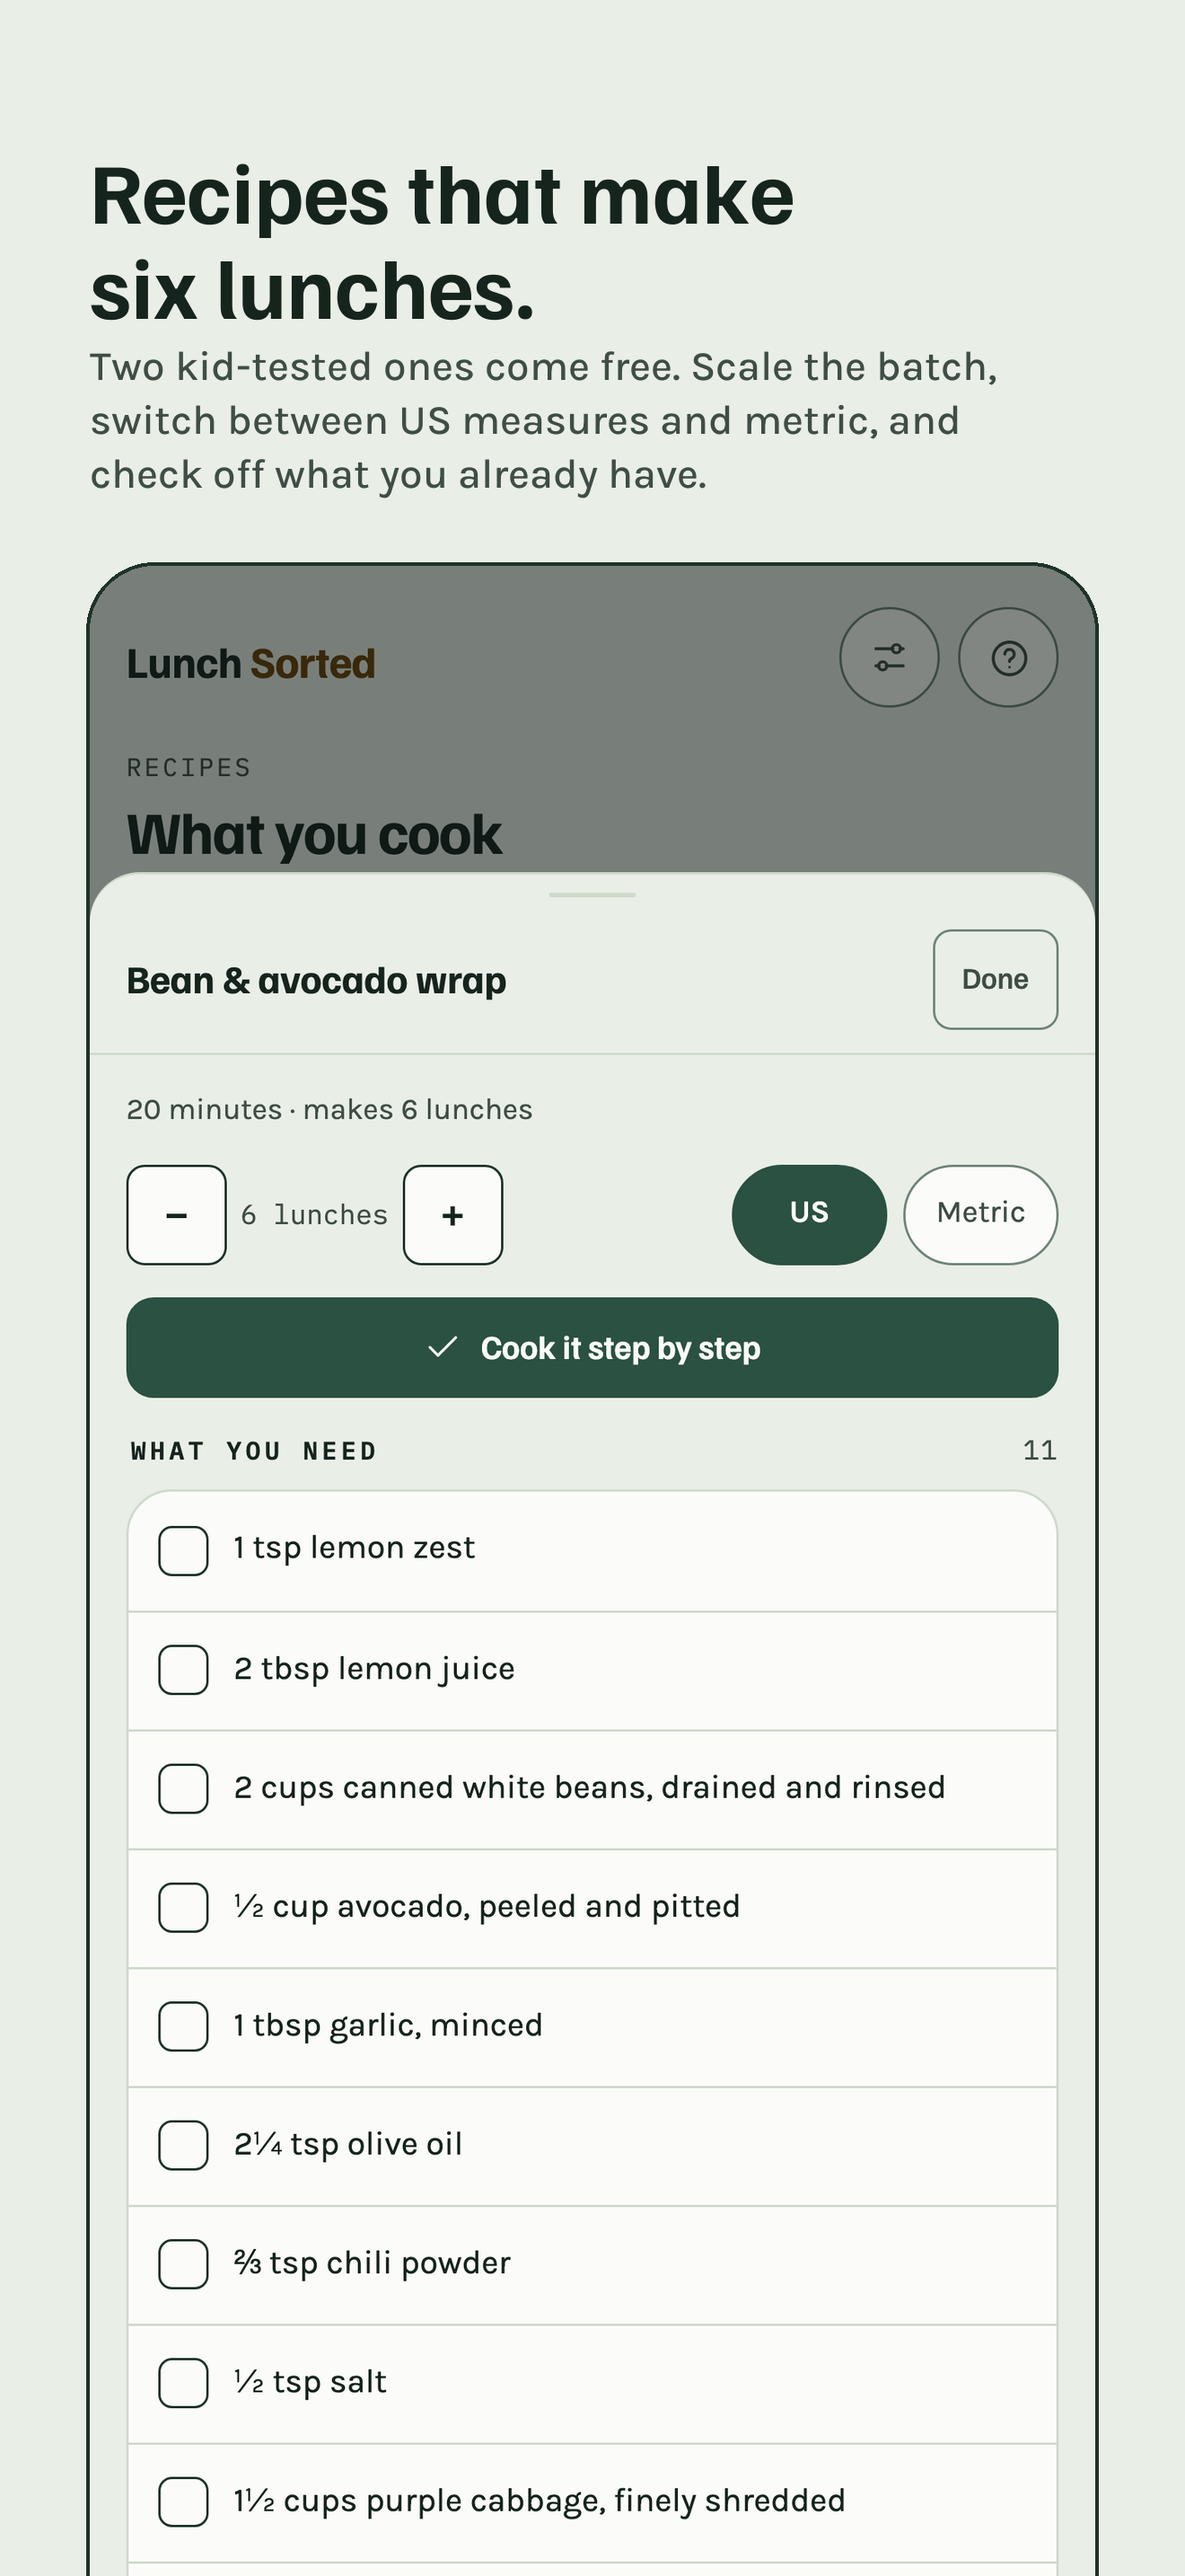
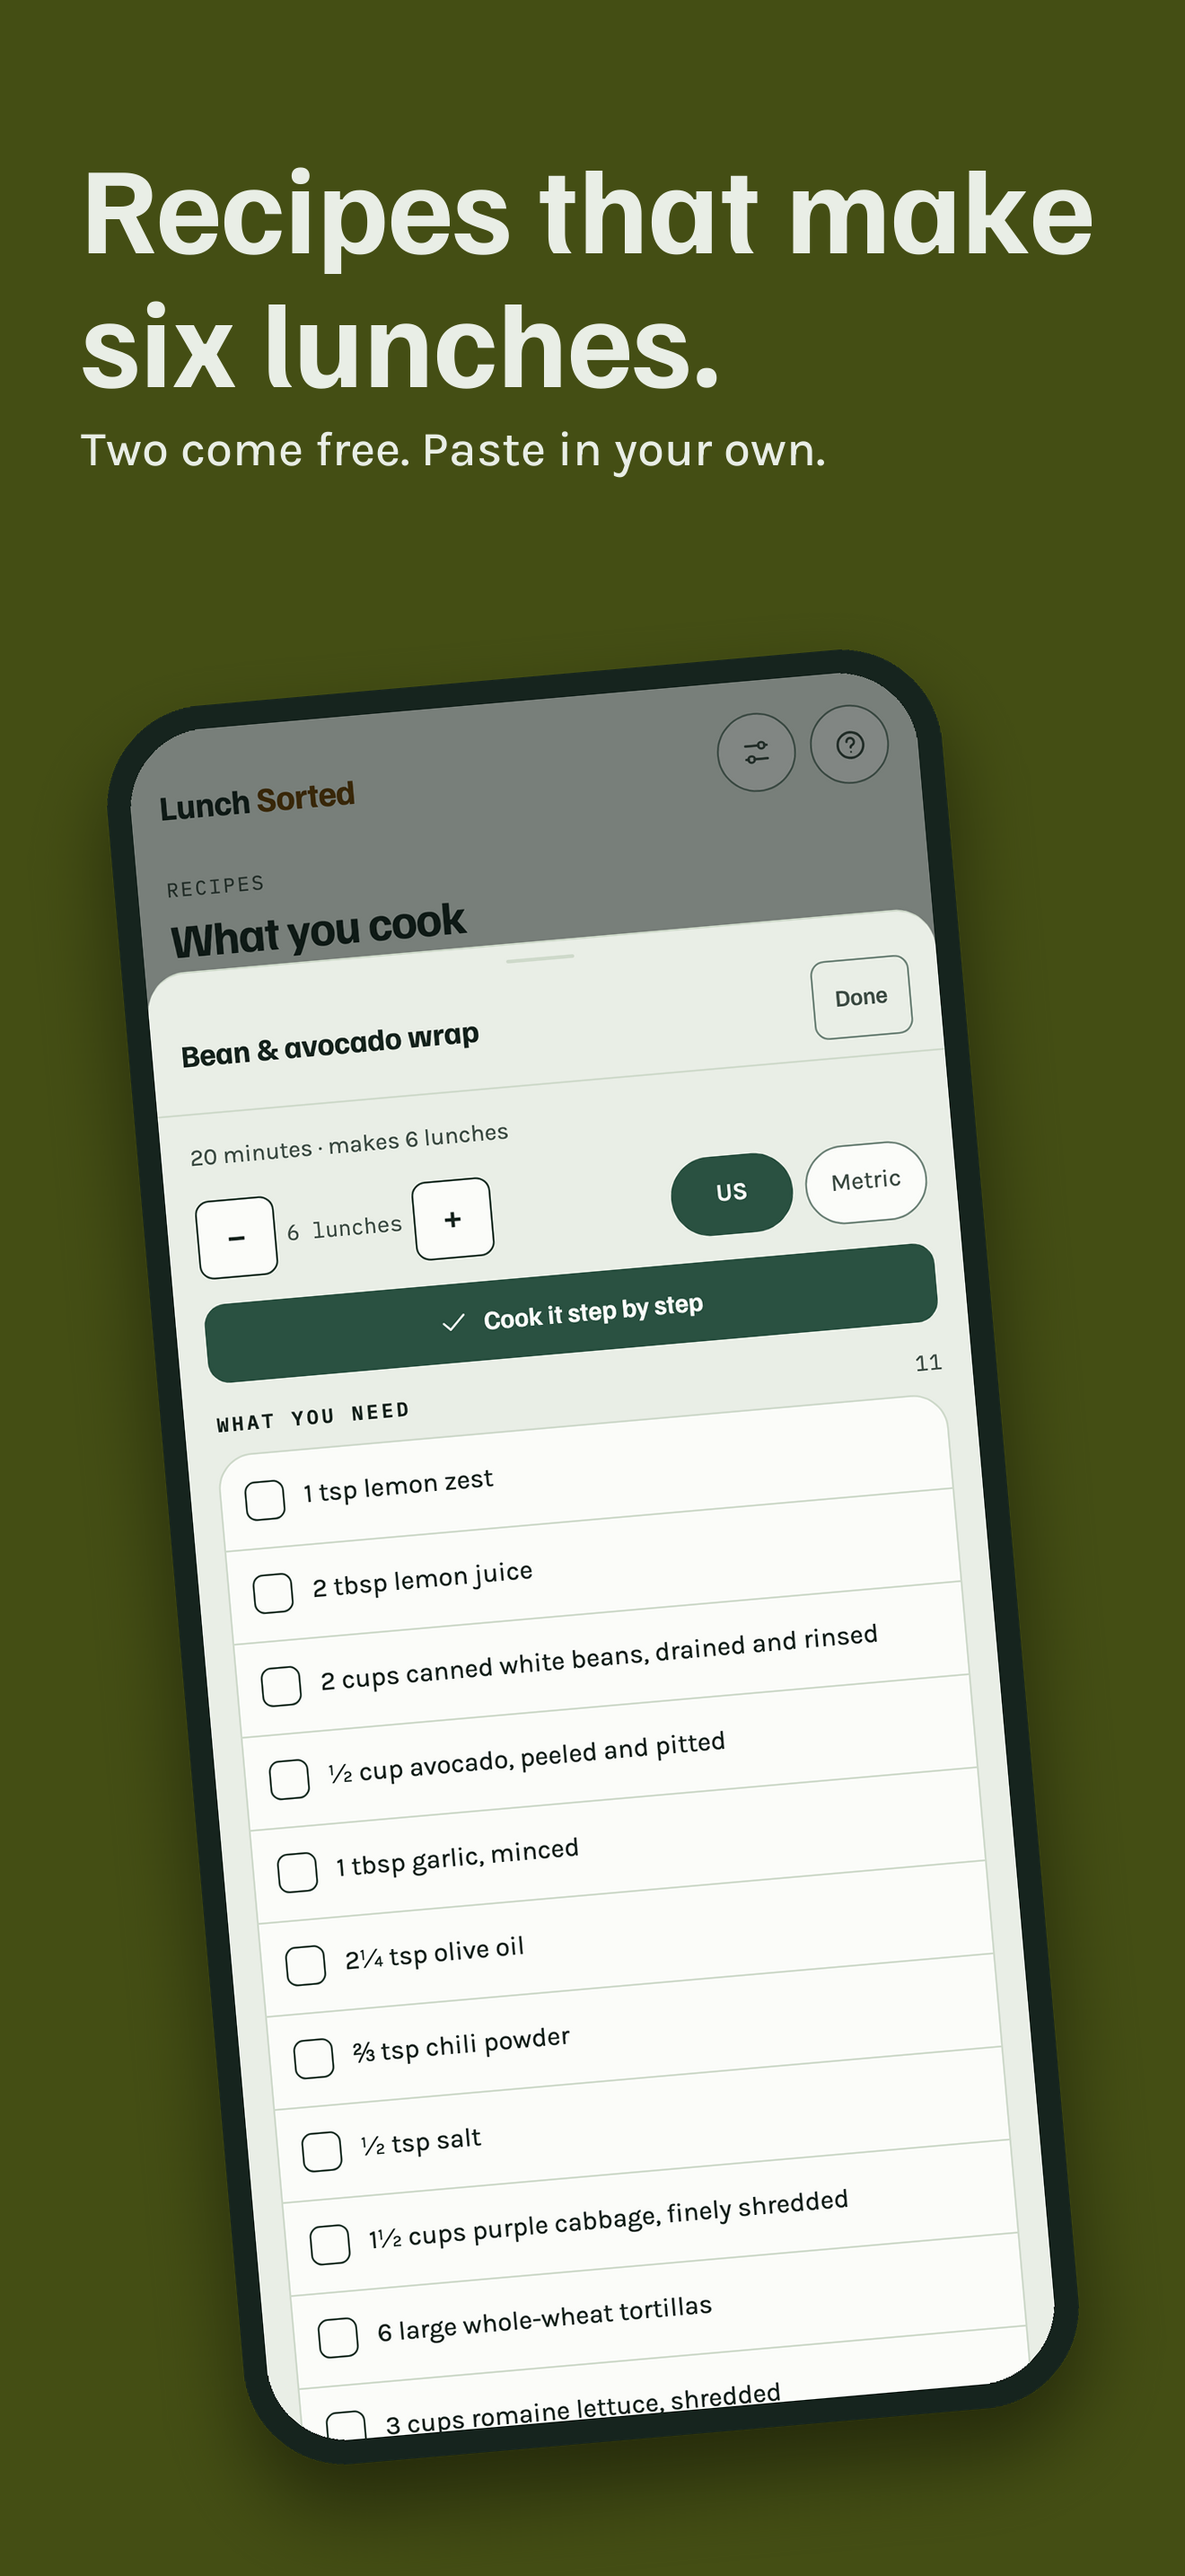
Store: the screenshots redesigned to read as an ad, and the subtitle is Kids' school lunch ideas
Each screen now sits in a phone with a heavy bezel, tilted five degrees and
alternating down the set, on one of the brand's six compartment colors, under
a two-line headline (up to 150px) and one short line; the first three are what
search results show side by side. The recipes caption matches its screen again
and the cook sheet is no longer cropped, so every phone is the same height.
listing.md and the keyword note record Liz's subtitle choice.

diff --git a/scripts/store-compose.py b/scripts/store-compose.py
@@ -1,32 +1,40 @@
-"""Composes the App Store screenshots: each raw capture from store-shots.mjs on
-the app's ground colour with a headline above it, at 1320x2868 (the 6.9-inch
-slot; App Store Connect scales it for smaller phones). Fonts are the app's
-own, checked in under store/ (Familjen Grotesk and Karla, both under the SIL Open Font
-License, from Google Fonts). Run by scripts/store-shots.mjs."""
-from PIL import Image, ImageDraw, ImageFont
+"""Composes the App Store screenshots: each raw capture from store-shots.mjs set in a
+phone with a heavy bezel, tilted a few degrees, on one of the brand's compartment
+colors, under a short headline, at 1320x2868 (the 6.9-inch slot; App Store Connect
+scales it for smaller phones). Fonts are the app's own, checked in under store/
+(Familjen Grotesk and Karla, both under the SIL Open Font License, from Google Fonts).
+Run by scripts/store-shots.mjs."""
+from PIL import Image, ImageDraw, ImageFont, ImageFilter
 import os
 
 OUT = 'store/screenshots'
 W, H = 1320, 2868
-GROUND, INK, INK2, LINE = (0xE9, 0xEE, 0xE6), (0x16, 0x24, 0x1E), (0x3E, 0x4D, 0x45), (0x1E, 0x33, 0x29)
-HEAD = ImageFont.truetype('store/FamiljenGrotesk-Bold.ttf', 96)
-SUB = ImageFont.truetype('store/Karla-Medium.ttf', 46)
+GROUND = (0xE9, 0xEE, 0xE6)          # the page color, here the text
+INK = (0x16, 0x24, 0x1E)             # the bezel
+# The compartment colors (HANDBOOK.md, The brand): main, side, fruit, sweet, snack, drink.
+BACKS = [(0x2A, 0x51, 0x41), (0x6A, 0x40, 0x07), (0x84, 0x27, 0x3E), (0x50, 0x3E, 0x7E), (0x44, 0x4E, 0x14), (0x20, 0x4E, 0x62)]
+HEAD_FONT = 'store/FamiljenGrotesk-Bold.ttf'
+SUB = ImageFont.truetype('store/Karla-Medium.ttf', 54)
 
+# (raw capture, output name, headline, one line under it). The headline is two lines at most:
+# the first three screenshots sit side by side in search results at a third of this width.
 SHOTS = [
-    ('week',    '01-week',    'A week of lunches\nin a minute.', 'A main, a side, a fruit and a sweet for every school day, matched so each box goes together: crunchy against soft, tangy against salty.'),
-    ('pack',    '02-pack',    'Mornings: one box,\none check.',            'Today’s box, an ice-pack flag when it needs one, and the rest of the week coming up.'),
-    ('kidpick', '03-kidpick', 'Hand them the phone.\nThey pick.',       'Tomorrow’s box, chosen from the week you already shopped for. A lunch they chose comes home emptier.'),
-    ('shop',    '04-shop',    'The shopping list\nwrites itself.',      'Everything planned, grouped by aisle. Check off whatever you already have at home.'),
-    ('recipes', '05-recipes', 'Recipes that make\nsix lunches.',       'Two kid-tested ones come free. Scale the batch, switch between US measures and metric, and check off what you already have.'),
-    ('cook',    '06-cook',    'Cook it one step\nat a time.',          'One step on the screen, with the amounts for just that step underneath it and a box to check off for each one as it goes in.'),
-    ('setup',   '07-rules',   'Your school’s rules,\nrespected.',       'Nut-free, cold-only, no ice pack, a short eating window. Foods are flagged, never silently dropped.'),
-    ('foods',   '08-foods',   'Foods they’ll\nactually eat.',           'Start from what parents pack, add more from a long list of ideas, and tell it what came home. Next week’s plan learns.'),
+    ('week',    '01-week',    'A week of lunches\nin a minute.',    'Five boxes, matched so they go together.'),
+    ('pack',    '02-pack',    'Mornings:\none box, one check.',     'Today’s box, and the week coming up.'),
+    ('kidpick', '03-kidpick', 'Hand them\nthe phone.',              'They pick. It’s already on the shopping list.'),
+    ('shop',    '04-shop',    'The list\nwrites itself.',           'Grouped by aisle. Send it to Notes or as a text.'),
+    ('recipes', '05-recipes', 'Recipes that make\nsix lunches.',     'Two come free. Paste in your own.'),
+    ('cook',    '06-cook',    'Cook it one step\nat a time.',       'Check off each ingredient as it goes in.'),
+    ('setup',   '07-rules',   'Your school’s rules,\nrespected.',   'Nut free, no microwave, a short lunch. Flagged, never dropped.'),
+    ('foods',   '08-foods',   'Foods they’ll\nactually eat.',       'Start from what parents pack.'),
 ]
-CROP_BOT = {'cook': 840}   # (name: raw pixels off the bottom) for a sheet that stops short of the screen
-                # and would otherwise trail empty ground. Keep the way on in the picture:
-                # the cook sheet's buttons follow the amounts, so this has to clear them.
-CROP_TOP = {'kidpick': 320}   # (name: raw pixels off the top) the kid's pick fills its screen exactly,
-                              # so without this the second option's bottom edge bleeds off the canvas
+CROP_BOT = {}                 # (name: raw pixels off the bottom); the cook sheet's empty ground reads as screen inside the bezel
+CROP_TOP = {'kidpick': 320}   # (name: raw pixels off the top) the kid's pick fills its screen exactly
+
+SCREEN_W = 880      # the screen inside the bezel; the phone then fits the canvas whole, tilted
+BEZEL = 26
+TILT = 5            # degrees; alternates sign down the set so three in a row read as a set, not a wall
+MARGIN = 90
 
 def wrap(draw, text, font, width):
     lines = []
@@ -39,30 +47,50 @@ def wrap(draw, text, font, width):
         lines.append(line)
     return lines
 
+def headline(draw, text, width):
+    """The biggest size at which the headline is two lines or fewer."""
+    for size in range(150, 100, -4):
+        font = ImageFont.truetype(HEAD_FONT, size)
+        lines = wrap(draw, text, font, width)
+        if len(lines) <= 2: return font, lines, size
+    return font, lines, size
+
 def rounded(im, r):
     mask = Image.new('L', im.size, 0)
     ImageDraw.Draw(mask).rounded_rectangle([0, 0, im.width - 1, im.height - 1], r, fill=255)
     out = Image.new('RGBA', im.size, (0, 0, 0, 0)); out.paste(im, (0, 0), mask); return out
 
-for raw, name, head, sub in SHOTS:
+def phone(shot):
+    """The capture in a bezel, with its shadow, as one RGBA layer."""
+    sw = SCREEN_W; sh = int(shot.height * sw / shot.width)
+    screen = rounded(shot.resize((sw, sh), Image.LANCZOS), 88)
+    fw, fh = sw + 2 * BEZEL, sh + 2 * BEZEL
+    pad = 160                                           # room for the shadow's blur
+    layer = Image.new('RGBA', (fw + 2 * pad, fh + 2 * pad), (0, 0, 0, 0))
+    shadow = Image.new('RGBA', layer.size, (0, 0, 0, 0))
+    ImageDraw.Draw(shadow).rounded_rectangle([pad, pad + 50, pad + fw, pad + fh + 50], 112, fill=(0, 0, 0, 120))
+    shadow = shadow.filter(ImageFilter.GaussianBlur(44))
+    layer.alpha_composite(shadow)
+    ImageDraw.Draw(layer).rounded_rectangle([pad, pad, pad + fw, pad + fh], 112, fill=INK + (255,))
+    layer.alpha_composite(screen, (pad + BEZEL, pad + BEZEL))
+    return layer
+
+for i, (raw, name, head, sub) in enumerate(SHOTS):
     src = os.path.join(OUT, 'raw-' + raw + '.png')
     if not os.path.exists(src): print('missing', src); continue
     shot = Image.open(src).convert('RGB')
     if raw in CROP_TOP: shot = shot.crop((0, CROP_TOP[raw], shot.width, shot.height))
     if raw in CROP_BOT: shot = shot.crop((0, 0, shot.width, shot.height - CROP_BOT[raw]))
-    canvas = Image.new('RGB', (W, H), GROUND); d = ImageDraw.Draw(canvas)
-    y = 150
-    for line in wrap(d, head, HEAD, W - 200):
-        d.text((100, y), line, font=HEAD, fill=INK); y += 106
-    y += 18
-    for line in wrap(d, sub, SUB, W - 220):
-        d.text((100, y), line, font=SUB, fill=INK2); y += 60
-    top = y + 70
-    sw = W - 200; sh = int(shot.height * sw / shot.width)
-    phone = rounded(shot.resize((sw, sh), Image.LANCZOS), 72)
-    frame = Image.new('RGBA', (sw + 8, sh + 8), (0, 0, 0, 0))
-    ImageDraw.Draw(frame).rounded_rectangle([0, 0, sw + 7, sh + 7], 76, fill=LINE)
-    canvas.paste(frame, (96, top - 4), frame)
-    canvas.paste(phone, (100, top), phone)
+    canvas = Image.new('RGB', (W, H), BACKS[i % len(BACKS)]); d = ImageDraw.Draw(canvas)
+    font, lines, size = headline(d, head, W - 2 * MARGIN)
+    y = 140
+    for line in lines:
+        d.text((MARGIN, y), line, font=font, fill=GROUND); y += int(size * 1.08)
+    y += 30
+    for line in wrap(d, sub, SUB, W - 2 * MARGIN):
+        d.text((MARGIN, y), line, font=SUB, fill=GROUND); y += 68
+    layer = phone(shot).rotate(TILT if i % 2 == 0 else -TILT, resample=Image.BICUBIC, expand=True)
+    top = max(y + 60, 700)
+    canvas.paste(layer, ((W - layer.width) // 2, top - 160), layer)
     canvas.save(os.path.join(OUT, name + '.png'), optimize=True)
-    print('composed', name)
+    print('composed', name, size)

diff --git a/store/listing.md b/store/listing.md
@@ -28,7 +28,7 @@ the enrollment, so settle it before launch.
 ## App Information
 
 - [x] Name (30): **Lunch Sorted: Lunchbox Planner** (entered on the 1.1 draft 2026-10-25; 1.0 is live as **Lunch Sorted**; why: `store/aso-2026-10-23.md`)
-- [x] Subtitle (30): **School lunch ideas for kids** (entered with 1.1; 1.0 is live as **School lunches, planned**. The spec check of 2026-10-28 notes "for kids" can read as who the app is for, which the product rules keep clear of; the alternative is **Kids' school lunch ideas**, 24. Liz's call before 1.1 is submitted.)
+- [x] Subtitle (30): **Kids' school lunch ideas** (Liz, 2026-10-28, for 1.1; "School lunch ideas for kids" read as who the app is for. 1.0 is live as **School lunches, planned**.)
 - [x] Bundle ID: `app.lunchsorted`
 - [x] SKU: `lunchsorted`
 - [x] Primary language: English (U.S.)
@@ -128,21 +128,26 @@ the enrollment, so settle it before launch.
 
 ### Screenshots (6.9-inch, in this order)
 
-- [x] Regenerated 2026-10-28 on this branch, which is main at v31 plus the "in a minute" headline (`node scripts/store-shots.mjs`, `node scripts/iap-shot.mjs`; the composer needs the Python that has Pillow, `/usr/bin/python3` on this Mac, so run with `PATH=/usr/bin:$PATH`),
+- [x] Regenerated and recomposed 2026-10-28 on this branch, which is main at v31 plus the "in a minute" headline (`node scripts/store-shots.mjs`, `node scripts/iap-shot.mjs`; the composer needs the Python that has Pillow, `/usr/bin/python3` on this Mac, so run with `PATH=/usr/bin:$PATH`),
       pinned to Monday September 14: Phase A's screens, and 01-week taken with the kid's say
       on, so it shows Let Emma pick the week.
 - [ ] Uploaded, with `store/iap-review.png` on both subscriptions. A version In Review cannot
       have its screenshots swapped without pulling the submission back: upload at the next
       editable moment.
 
-1. `01-week.png`: A week of lunches in a minute.
-2. `02-pack.png`: Mornings: one box, one check.
-3. `03-kidpick.png`: Hand them the phone. They pick.
-4. `04-shop.png`: The shopping list writes itself.
-5. `05-recipes.png`: Recipes that make six lunches.
-6. `06-cook.png`: Cook it one step at a time.
-7. `07-rules.png`: Your school's rules, respected.
-8. `08-foods.png`: Foods they'll actually eat.
+1. `01-week.png`: A week of lunches in a minute. / Five boxes, matched so they go together.
+2. `02-pack.png`: Mornings: one box, one check. / Today's box, and the week coming up.
+3. `03-kidpick.png`: Hand them the phone. / They pick. It's already on the shopping list.
+4. `04-shop.png`: The list writes itself. / Grouped by aisle. Send it to Notes or as a text.
+5. `05-recipes.png`: Recipes that make six lunches. / Two come free. Paste in your own.
+6. `06-cook.png`: Cook it one step at a time. / Check off each ingredient as it goes in.
+7. `07-rules.png`: Your school's rules, respected. / Nut free, no microwave, a short lunch. Flagged, never dropped.
+8. `08-foods.png`: Foods they'll actually eat. / Start from what parents pack.
+
+Redesigned 2026-10-28 at Liz's ask (the September set read as a document, not an ad): each
+screen in a phone with a heavy bezel, tilted five degrees, alternating, on one of the brand's
+six compartment colors, under a two-line headline and one short line. The first three are what
+search results show side by side, so the headlines are sized to read at a third of this width.
 
 They live in `screenshots/`, 1320×2868, the 6.9-inch slot, and App Store Connect scales
 them for the smaller phones. Regenerate with `CHROMIUM_PATH=… node scripts/store-shots.mjs`.

diff --git a/store/aso-2026-10-23.md b/store/aso-2026-10-23.md
@@ -70,11 +70,11 @@ Title, subtitle and keywords change only with a new version, so this rides the n
 | Field | Proposed | Used |
 |---|---|---|
 | Title | Lunch Sorted: Lunchbox Planner | 30 / 30 |
-| Subtitle | School lunch ideas for kids | 27 / 30 |
+| Subtitle | Kids' school lunch ideas | 24 / 30 |
 | Keywords | box,bento,packed,meal,week,menu,picky,eater,snack,grocery,list,allergy,nut,free,recipe,kindergarten | 99 / 100 |
 
 Why: the title is the heaviest field and had 18 characters empty; "lunchbox" and "planner" move
-into it from the keyword field. The subtitle gains "ideas" and "kids" and keeps "school" and
+into it from the keyword field. The subtitle gains "ideas" and "kids" ("Kids' school lunch ideas", Liz's pick on 2026-10-28, since "for kids" reads as who the app is for) and keeps "school" and
 "lunch"; it drops "planned", which duplicates "planner". Apple says not to repeat a word across
 the three fields and handles plurals itself, so the keyword field loses lunchbox, planner, kids
 and shopping (shopping list is a category we will never rank in; grocery + list stays for
@@ -86,7 +86,6 @@ Phrases this set can match: lunchbox planner, lunch box planner, school lunch pl
 lunch ideas, kids lunch ideas, lunchbox ideas, packed lunch ideas, picky eater lunch, kids
 lunch menu, weekly lunch menu, nut free lunch, kindergarten lunch, bento box lunch, lunch grocery list.
 
-Alternative subtitles if "for kids" reads thin: "Kids' school lunch ideas" (24).
 
 ## What text cannot fix
 
